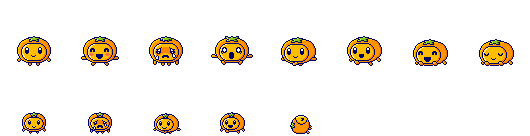
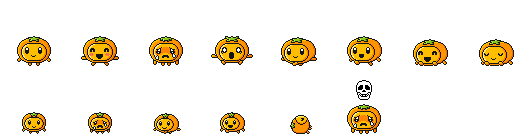
tamagonche v0.3.0

diff --git a/tamagonche/game.js b/tamagonche/game.js
@@ -3,20 +3,26 @@ const sb = supabase.createClient('https://toflnsmrnnpfkzjpfuuu.supabase.co', 'ey
 const ACTIONS_COUNT = 10;
 const EAT_TIME = 6; // seconds
 const FOOD_POS_Y = -25;
-const PET_POS_Y = 120;
+const PET_POS_Y = 216;
 const PET_SPEED = 50;
 
 let pets = {};
+let trash = {};
 let petContainers = {};
 let petSprites = {};
 let foodSprites = {};
 let foodLevelSprites = [];
+let trashSprites = {};
+
+let petLayer;
+let trashLayer;
+
 let game;
 
 const config = {
     type: Phaser.CANVAS,
-    width: 320,
-    height: 210,
+    width: 360,
+    height: 360,
     pixelArt: true,
     physics: { default: 'arcade' },
     canvas: document.getElementById("canvas"),
@@ -31,6 +37,7 @@ const config = {
 function preload() {
     this.load.spritesheet('puchitomatchi', 'puchitomatchi.png', { frameWidth: 66, frameHeight: 68 });
     this.load.spritesheet('food', 'food.png', { frameWidth: 26, frameHeight: 28 });
+    this.load.image('poop', 'poop.png');
     this.load.image('heart_red', 'heartred.png');
     this.load.image('heart_grey', 'heartgrey.png');
 }
@@ -49,6 +56,12 @@ async function loadData() {
     for (let action of actions.reverse()) {
         addAction(action);
     }
+
+    const { data: trashData } = await sb
+        .from('trash')
+        .select()
+        .order('id');
+    trash = trashData.reduce((acc, t) => ({...acc, [t.id.toString()]: t }), {});
 }
 
 async function startGame() {
@@ -70,6 +83,12 @@ function create() {
     this.anims.create({
         key: 'puchitomatchi_hungry',
         frames: this.anims.generateFrameNumbers('puchitomatchi', { start: 2, end: 2 }),
+        frameRate: 2,
+        repeat: 0
+    });
+    this.anims.create({
+        key: 'puchitomatchi_sick',
+        frames: this.anims.generateFrameNumbers('puchitomatchi', { start: 13, end: 13 }),
         frameRate: 2,
         repeat: 0
     });
@@ -98,9 +117,15 @@ function create() {
         repeat: 0
     });
 
+    petLayer = this.add.layer();
+    trashLayer = this.add.layer();
+
+    petLayer.setDepth(1);
+    trashLayer.setDepth(0);
 
     for (const pet of Object.values(pets)) {
         petContainers[pet.id.toString()] = this.add.container(0, PET_POS_Y);
+        petLayer.add([petContainers[pet.id.toString()]]);
         petSprites[pet.id.toString()] = this.add.sprite(0, 0, pet.sprite_type).setScale(2);
         petContainers[pet.id.toString()].add(petSprites[pet.id.toString()]);
         petContainers[pet.id.toString()].setPosition(getPetX(pet), PET_POS_Y);
@@ -118,6 +143,10 @@ function create() {
 
         updateHearts(pet);
     }
+
+    for (let t of Object.values(trash)) {
+        addTrash(t);
+    }
 }
 
 function updateHearts(pet) {
@@ -128,6 +157,10 @@ function updateHearts(pet) {
     for (let i = 0; i < pet.max_food; i++) {
         foodLevelSprites.push(game.scene.scenes[0].add.sprite(config.width/2-40*(pet.max_food-1)/2+40*i, 40, pet.food >= i+1 ? 'heart_red' : 'heart_grey').setScale(2));
     }
+}
+
+function getX(relativeX, margin) {
+    return (config.width-margin)*relativeX+margin/2;
 }
 
 function getPetX(pet) {
@@ -155,6 +188,13 @@ function walk(pet, oldPet) {
 function update() {
 }
 
+function addTrash(t) {
+    trash[t.id] = t;
+    trashSprites[t.id.toString()] = game.scene.scenes[0].add.sprite(getX(t.pos_x, 60), PET_POS_Y+20, t.type).setScale(2);
+    trashSprites[t.id.toString()].setFlipX(t.flip_x);
+    trashLayer.add([trashSprites[t.id.toString()]]);
+}
+
 function addAction(action) {
     const div = document.createElement('div');
     div.className = 'action';
@@ -172,6 +212,10 @@ function addAction(action) {
     const content = document.createElement('div');
     if (action.type === 'feed') {
         content.innerHTML = `<span class="pseudo">${action.username}</span> lui donne à manger`;
+    } else if (action.type === 'clean_trash') {
+        content.innerHTML = `<span class="pseudo">${action.username}</span> nettoie la merde`;
+    } else if (action.type === 'give_medicine') {
+        content.innerHTML = `<span class="pseudo">${action.username}</span> lui donne un doliprane`;
     } else {
         return;
     }
@@ -183,8 +227,8 @@ function addAction(action) {
 }
 
 const channel = sb
-  .channel('prod')
-  .on(
+.channel('prod')
+.on(
     'postgres_changes',
     { event: 'UPDATE', schema: 'public', table: 'pets' },
     (p) => {
@@ -211,8 +255,8 @@ const channel = sb
             walk(p.new, oldPet);
         }
     }
-  )
-  .on(
+)
+.on(
     'postgres_changes',
     { event: 'INSERT', schema: 'public', table: 'actions' },
     (a) => {
@@ -220,24 +264,28 @@ const channel = sb
 
         if (a.new.type === 'feed') {
             const pet = pets[a.new.pet_id];
-            const eat_anim = statusToAnim(pet, 'eat');
             if (!document.hidden) { // Don't animate if the tab is not active
                 foodSprites[pet.id.toString()].setVisible(true);
                 foodSprites[pet.id.toString()].play('consume_burger');
-                const anim = petSprites[pet.id.toString()].anims.currentAnim;
-                if (anim && anim.key != statusToAnim(pet, 'walk')) {
-                    petSprites[pet.id.toString()].play(eat_anim);
-                }
             }
-            setTimeout(() => {
-                const anim = petSprites[pet.id.toString()].anims.currentAnim;
-                if (anim && anim.key == eat_anim) {
-                    petSprites[pet.id.toString()].play(statusToAnim(pet));
-                }
-            }, EAT_TIME*1000);
         }
     }
-  )
-  .subscribe();
+)
+.on(
+    'postgres_changes',
+    { event: 'INSERT', schema: 'public', table: 'trash' },
+    (t) => {
+        addTrash(t.new);
+    }
+)
+.on(
+    'postgres_changes',
+    { event: 'DELETE', schema: 'public', table: 'trash' },
+    (t) => {
+        trashSprites[t.old.id.toString()].destroy();
+        delete trashSprites[t.old.id.toString()];
+    }
+)
+.subscribe();
 
 startGame()

diff --git a/tamagonche/index.html b/tamagonche/index.html
@@ -14,7 +14,7 @@
       box-sizing: border-box;
     }
     html, body {
-      background: #f5ac00;
+      background: #ffbd00;
       margin: 0;
       padding: 0;
       font-size: 20px;
@@ -42,6 +42,7 @@
       justify-content: center;
       width: 100%;
       height: 100%;
+      position: relative;
     }
 
     #sidebar {
@@ -58,6 +59,7 @@
       margin: 6px;
       padding: 10px;
       text-align: center;
+      border: 2px solid #000000;
     }
     .action > .time {
       color: #666666;
@@ -78,12 +80,32 @@
       color: #ffffff;
       text-wrap: nowrap;
     }
-    @media (max-width: 768px) {
+    #ground {
+      position: absolute;
+      top: 50%;
+      left: 0;
+      width: 100%;
+      height: 360px;
+      transform: translateY(-50%);
+      background-image: url('background.png');
+      background-repeat: repeat-x;
+      background-size: 128px 360px;
+      background-position-x: center;
+      z-index: 0;
+      image-rendering: pixelated;
+      image-rendering: crisp-edges;
+    }
+    #canvas {
+      z-index: 1;
+      pointer-events: none;
+    }
+    @media (max-width: 1068px) {
       body {
         grid-template-columns: 1fr;
         grid-template-rows: auto 1fr 1fr;
       }
       #sidebar {
+        margin-top: 15px;
         max-width: 100%;
         overflow-y: visible;
       }
@@ -92,12 +114,13 @@
   </head>
   <body>
     <div class="status-bar">
-      Tamagonche v0.2.0 -
+      Tamagonche v0.3.0 -
       <a target="_blank" href="https://onche.org/topic/817382/tamagonche">topic</a> -
       <a target="_blank" href="https://github.com/pepe-onche/pepe-onche.github.io/tree/main/tamagonche">source (site)</a> -
       <a target="_blank" href="https://github.com/pepe-onche/onchebot/blob/dev/onchebot/examples/tamagonche.py">source (bot)</a>
     </div>
     <div id="canvas-container">
+      <div id="ground"></div>
       <canvas id="canvas"></canvas>
     </div>
     <div id="sidebar">
